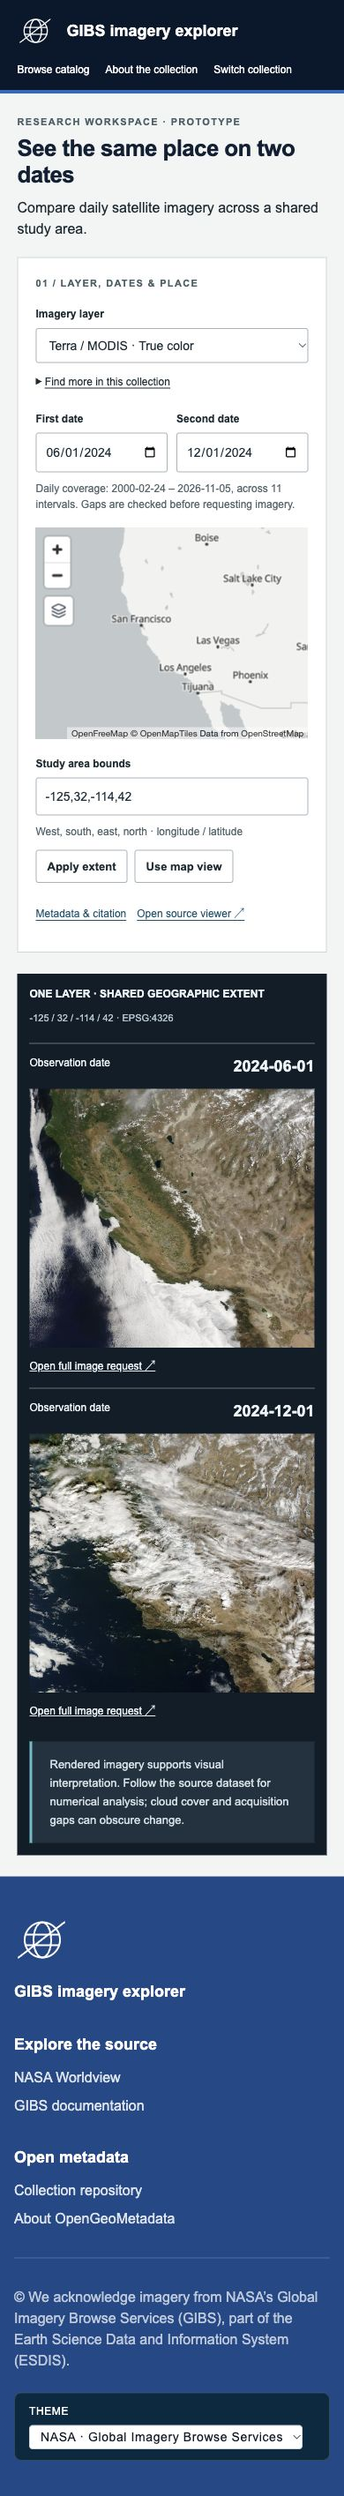
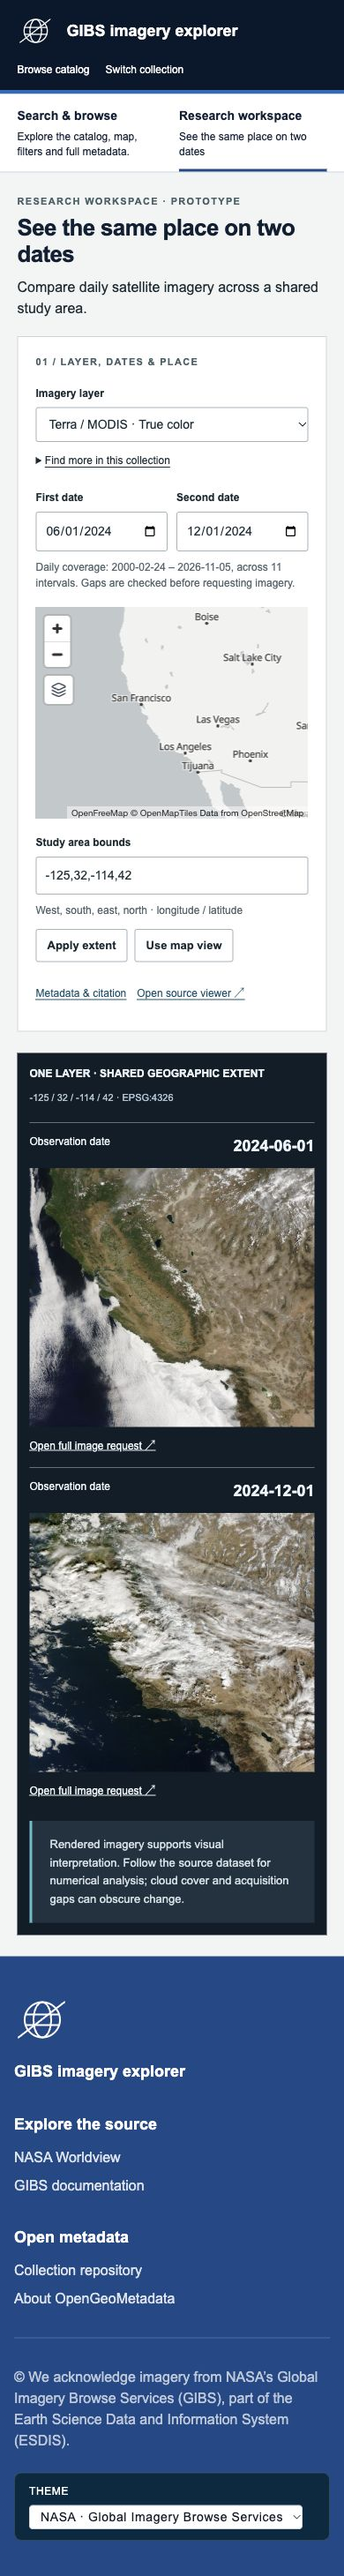
Offer discovery and research as complementary collection pathways

Changed region(s): [[0.0, 0.0, 1.0, 0.9951], [0.8923, 0.1555, 0.9231, 0.1866]]

diff --git a/src/__tests__/components/CollectionPathways.test.tsx b/src/__tests__/components/CollectionPathways.test.tsx
@@ -1,0 +1,68 @@
+import { render, screen } from '@testing-library/react';
+import userEvent from '@testing-library/user-event';
+import { MemoryRouter, useLocation } from 'react-router';
+import { beforeEach, describe, expect, it } from 'vitest';
+import { CollectionPathways } from '../../components/layout/CollectionPathways';
+import { I18nProvider } from '../../context/I18nContext';
+import { THEME_STORAGE_KEY } from '../../config/institution';
+import { ThemeProvider } from '../../context/ThemeContext';
+
+function Location() {
+  const location = useLocation();
+  return (
+    <output aria-label="Current route">
+      {location.pathname}
+      {location.search}
+    </output>
+  );
+}
+function renderPathways(themeId: string, path: string) {
+  window.localStorage.setItem(THEME_STORAGE_KEY, themeId);
+  return render(
+    <MemoryRouter initialEntries={[path]}>
+      <ThemeProvider initialThemeId={themeId}>
+        <I18nProvider>
+          <CollectionPathways />
+          <Location />
+        </I18nProvider>
+      </ThemeProvider>
+    </MemoryRouter>
+  );
+}
+describe('collection pathway navigation', () => {
+  beforeEach(() => window.localStorage.clear());
+  it.each(['nasa-gibs', 'usgs-tnm', 'usgs-htmc'])(
+    'switches both directions for %s without treating search filters as research settings',
+    async (theme) => {
+      renderPathways(theme, '/search?q=water');
+      const discovery = screen.getByRole('link', { name: /Search & browse/ });
+      const research = screen.getByRole('link', { name: /Research workspace/ });
+      expect(discovery).toHaveAttribute('aria-current', 'true');
+      expect(research).not.toHaveAttribute('aria-current');
+      await userEvent.click(research);
+      expect(screen.getByLabelText('Current route')).toHaveTextContent(
+        /^\/research$/
+      );
+      expect(research).toHaveAttribute('aria-current', 'true');
+      expect(discovery).not.toHaveAttribute('aria-current');
+      await userEvent.click(discovery);
+      expect(screen.getByLabelText('Current route')).toHaveTextContent(/^\/$/);
+      expect(discovery).toHaveAttribute('aria-current', 'true');
+    }
+  );
+  it('recognizes deep-linked research selections', () => {
+    renderPathways('nasa-gibs', '/research?before=2024-06-01');
+    expect(
+      screen.getByRole('link', { name: /Research workspace/ })
+    ).toHaveAttribute('aria-current', 'true');
+  });
+  it.each(['btaa', 'unr'])(
+    'does not offer an unconfigured research pathway for %s',
+    (theme) => {
+      renderPathways(theme, '/');
+      expect(
+        screen.queryByRole('navigation', { name: 'Collection pathways' })
+      ).not.toBeInTheDocument();
+    }
+  );
+});

diff --git a/src/styles/collection-pathways.css b/src/styles/collection-pathways.css
@@ -1,0 +1,53 @@
+.collection-mode-nav {
+  background: var(--color-surface, #fff);
+  color: var(--color-text, #192a32);
+  border-block: 1px solid var(--color-border, #cbd5d7);
+}
+.collection-mode-links {
+  display: flex;
+  max-width: 1680px;
+  margin: 0 auto;
+  padding: 0 3%;
+  gap: 24px;
+}
+.collection-mode-links a {
+  display: flex;
+  flex-direction: column;
+  justify-content: center;
+  gap: 4px;
+  padding: 14px 6px 12px;
+  border-bottom: 3px solid transparent;
+  min-width: 0;
+  text-decoration: none;
+}
+.collection-mode-links strong {
+  font-size: 15px;
+  font-weight: 650;
+}
+.collection-mode-links span {
+  font-size: 12px;
+  line-height: 1.4;
+}
+.collection-mode-links a[aria-current] {
+  border-bottom-color: rgb(var(--color-primary, 16 43 66));
+}
+.collection-mode-links a:hover {
+  background: var(--color-surface-alt, #edf1f0);
+}
+.collection-mode-links a:focus-visible {
+  outline: 3px solid #c47b16;
+  outline-offset: -3px;
+}
+@media (max-width: 700px) {
+  .collection-mode-links {
+    gap: 16px;
+    padding: 0 5%;
+  }
+  .collection-mode-links a {
+    flex: 1;
+    padding-inline: 0;
+  }
+  .collection-mode-links strong {
+    font-size: 14px;
+  }
+}

diff --git a/src/components/layout/CollectionPathways.tsx b/src/components/layout/CollectionPathways.tsx
@@ -1,0 +1,27 @@
+import { Link, useLocation } from 'react-router';
+import { useTheme } from '../../hooks/useTheme';
+import { useI18n } from '../../hooks/useI18n';
+import '../../styles/collection-pathways.css';
+
+/** Two peer entry points, available wherever a configured collection is explored. */
+export function CollectionPathways() {
+  const { theme } = useTheme();
+  const { t, text } = useI18n();
+  const { pathname } = useLocation();
+  if (!theme.research) return null;
+  const researching = pathname === '/research';
+  return (
+    <nav className="collection-mode-nav" aria-label={t('research.pathways')}>
+      <div className="collection-mode-links">
+        <Link to="/" aria-current={!researching ? 'true' : undefined}>
+          <strong>{t('research.discoveryMode')}</strong>
+          <span>{t('research.discoveryDescription')}</span>
+        </Link>
+        <Link to="/research" aria-current={researching ? 'true' : undefined}>
+          <strong>{t('research.researchMode')}</strong>
+          <span>{text(theme.research.title)}</span>
+        </Link>
+      </div>
+    </nav>
+  );
+}

diff --git a/src/pages/ResearchPage.tsx b/src/pages/ResearchPage.tsx
@@ -2,6 +2,7 @@ import { Link, Navigate } from 'react-router';
 import { Helmet } from 'react-helmet-async';
 import { useTheme } from '../hooks/useTheme';
 import { useI18n } from '../hooks/useI18n';
+import { CollectionPathways } from '../components/layout/CollectionPathways';
 import { Footer } from '../components/layout/Footer';
 import { resolveThemeAssetUrl } from '../utils/themeUrls';
 import { ImageryPathway } from '../components/research/ImageryPathway';
@@ -38,7 +39,6 @@ export default function ResearchPage() {
         </Link>
         <nav aria-label={t('research.navigation')}>
           <Link to="/search">{t('research.catalog')}</Link>
-          <Link to="/about-collection">{t('research.about')}</Link>
           <a
             href="#footer"
             onClick={(event) => {
@@ -52,6 +52,7 @@ export default function ResearchPage() {
           </a>
         </nav>
       </header>
+      <CollectionPathways />
       <main tabIndex={-1} id="research-main" className="research-main">
         <div className="research-title">
           <div>

diff --git a/src/App.tsx b/src/App.tsx
@@ -1,5 +1,4 @@
 import { lazy, Suspense } from 'react';
-import { useTheme } from './hooks/useTheme';
 import { Routes, Route, Navigate, useSearchParams } from 'react-router';
 import { HelmetProvider } from 'react-helmet-async';
 import { SearchPage } from './pages/SearchPage';
@@ -18,7 +17,6 @@ import { TurnstileGate } from './components/security/TurnstileGate';
 const ResearchPage = lazy(() => import('./pages/ResearchPage'));
 
 function App() {
-  const { theme } = useTheme();
   const [searchParams] = useSearchParams();
   const hasSearchParams = Array.from(searchParams.entries()).length > 0;
 
@@ -56,8 +54,6 @@ function App() {
             element={
               hasSearchParams ? (
                 <Navigate to={`/search${searchString}`} replace />
-              ) : theme.research ? (
-                <Navigate to="/research" replace />
               ) : (
                 <HomePage />
               )

diff --git a/src/components/layout/Header.tsx b/src/components/layout/Header.tsx
@@ -6,6 +6,7 @@ import {
   type MouseEvent,
 } from 'react';
 import { Link, useLocation, useNavigate, useSearchParams } from 'react-router';
+import { CollectionPathways } from './CollectionPathways';
 import { Menu, X } from 'lucide-react';
 import { SearchField } from '../SearchField';
 import { ResourceClassFilterTabs } from '../search/ResourceClassFilterTabs';
@@ -455,6 +456,7 @@ export function Header() {
           onClick={() => setMobileNavOpen(false)}
         />
       )}
+      <CollectionPathways />
     </header>
   );
 }

diff --git a/src/i18n/messages.ts b/src/i18n/messages.ts
@@ -3,6 +3,11 @@ export type MessageValue = string | { [key: string]: MessageValue };
 export const messages = {
   en: {
     research: {
+      pathways: 'Collection pathways',
+      discoveryMode: 'Search & browse',
+      discoveryDescription:
+        'Explore the catalog, map, filters and full metadata.',
+      researchMode: 'Research workspace',
       previewError:
         'Scan preview unavailable. Use the metadata and download links below.',
       moreTiles: 'Show more tiles ({count} remaining)',

diff --git a/DESIGN.md b/DESIGN.md
@@ -256,7 +256,7 @@ community-prototype notice visible. Existing institutional heroes are unchanged.
 
 ## Asset-specific research workspaces
 
-Federal research homes use a compact institutional header and task-specific
+Federal research workspaces use a compact institutional header and task-specific
 workspaces. Imagery has a dark two-date comparison stage with a shared extent;
 elevation pairs a prominent tile-index map with a selection/download ledger;
 historical maps use paper tones, linked georeferenced views and edition chronology.
@@ -268,3 +268,14 @@ and edition versus printing years. Unsupported capabilities have explicit states
 Use original services and georeferenced assets for research comparison; browse
 thumbnails are only discovery aids. On narrow screens, stack controls and views
 without hiding metadata or download access. Every shared label is localizable.
+
+### Two complementary collection pathways
+
+Keep the standard discovery home as each collection’s entry point. When a theme
+configures research tools, show the same two-link pathway navigation in both the
+standard header and the research header: “Search & browse” and “Research workspace.”
+Keep both links visible on mobile, indicate the current pathway with an underline
+and `aria-current`, and describe the research task using localized theme copy.
+The switch also belongs on search results and record pages so neither experience
+becomes a dead end. Keep conventional catalog filters and research URL parameters
+independent; both pathways remain shareable through static hash routes.

diff --git a/docs/federal-research-pathways.md b/docs/federal-research-pathways.md
@@ -2,7 +2,7 @@
 
 These workspaces test whether the same metadata API can support three different research tasks. They are prototypes for evaluating workflows, not evidence of improved researcher outcomes. Task-based usability testing remains necessary: measure time to a valid comparison or GIS-ready asset selection, errors, confidence in provenance, and whether the source application is still needed.
 
-The collection themes now open their research workspace. The original collection introduction remains at `#/about-collection`, and the complete scoped catalog at `#/search`. Theme selection uses the existing shareable theme paths. No server or API contract changes are required.
+Both pathways are first-class. Each collection opens the standard discovery home at `#/`, with the existing search, browse, map, filters and record interface. The optimized workspace remains directly linkable at `#/research`. A shared, always-visible “Search & browse” / “Research workspace” switch appears in both headers and on catalog results and record pages. It identifies the active pathway and remains visible on mobile. The older `#/about-collection` route remains a discovery-home alias, and the complete scoped catalog stays at `#/search`. Switching pathways does not convert catalog filters into workflow parameters; browser Back returns to the previous URL and its selections. Theme selection uses the existing shareable theme paths. No server or API contract changes are required.
 
 ## What each workspace does
 

diff --git a/README.md b/README.md
@@ -454,9 +454,12 @@ for source provenance, preview limitations and screenshots.
 
 ### Asset-specific research workspaces
 
-An optional top-level `research` configuration opens an asset-specific home at
-`#/research`. Existing themes without it retain their current homepage. The
-original introduction remains available at `#/about-collection`.
+An optional top-level `research` configuration enables an asset-specific workspace
+at `#/research` alongside the standard discovery experience. Every collection
+home (`#/`) retains its search, browse and map interface. A shared “Search & browse” /
+“Research workspace” switch appears in both interfaces, including catalog results
+and record pages. Themes without `research` keep their existing navigation.
+The older `#/about-collection` link remains a compatible alias for the discovery home.
 
 - `kind`: `imagery`, `elevation`, or `editions` (workflow capabilities, not institution IDs).
 - `title`, `description`, `note`: localized text objects.

diff --git a/docs/federal-collection-themes.md b/docs/federal-collection-themes.md
@@ -1,6 +1,6 @@
 # Federal collection prototypes
 
-The collection homes now open [asset-specific research workspaces](federal-research-pathways.md).
+The collection homes retain standard discovery alongside [asset-specific research workspaces](federal-research-pathways.md), with a visible switch between both pathways.
 This document records the initial branding/source review; its original landing-page
 screenshots remain useful for reviewing `#/about-collection`. Current workflow
 screenshots are in `screenshots/research-pathways/`.
